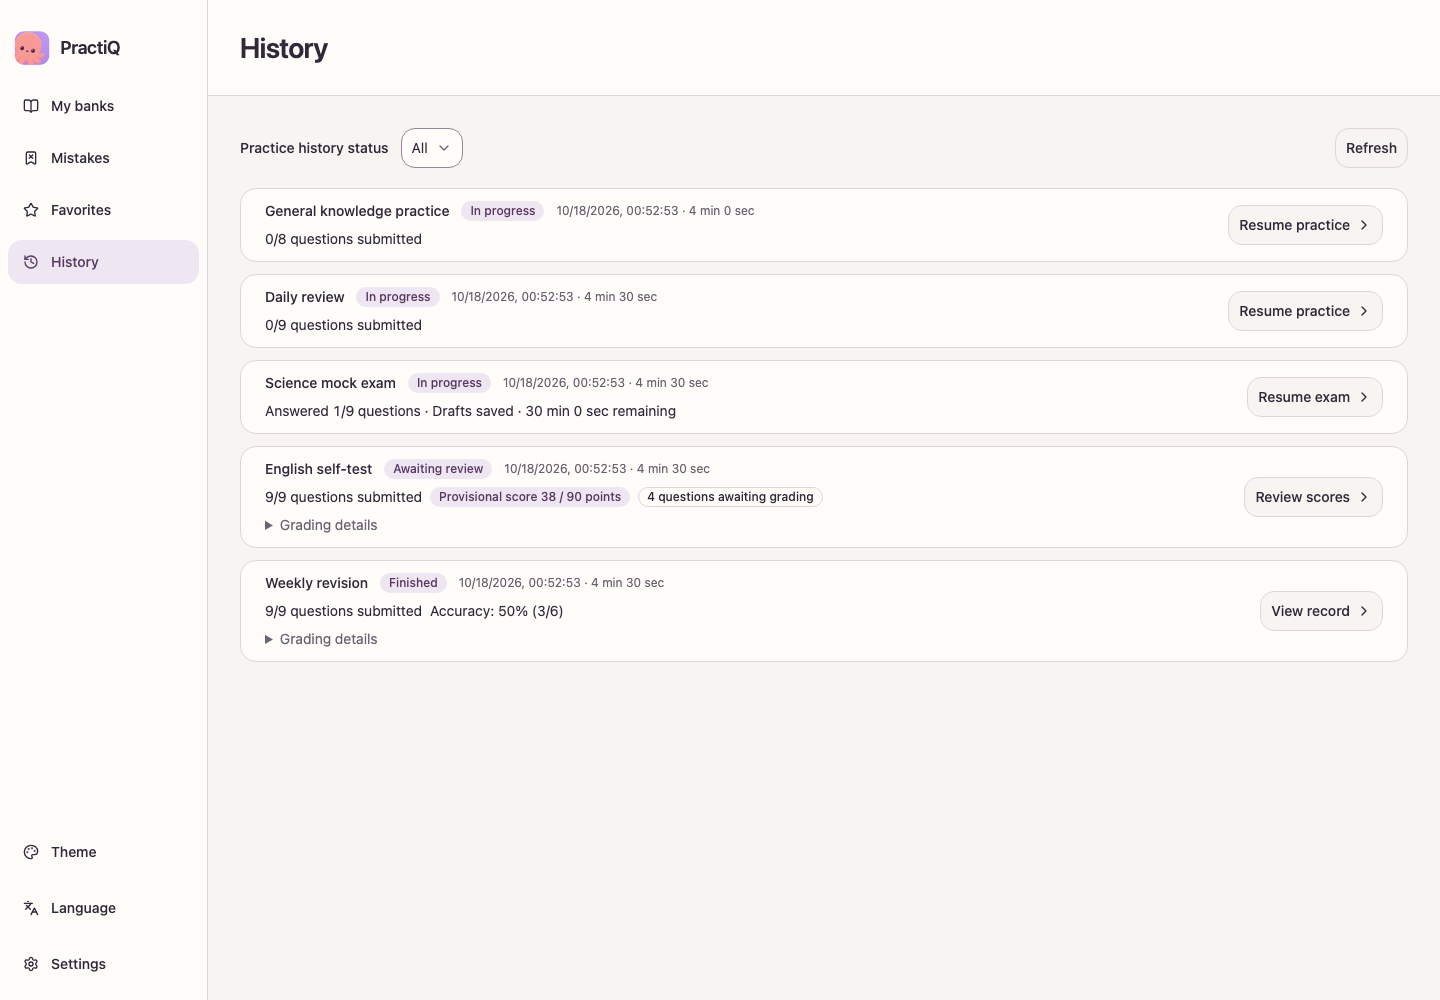
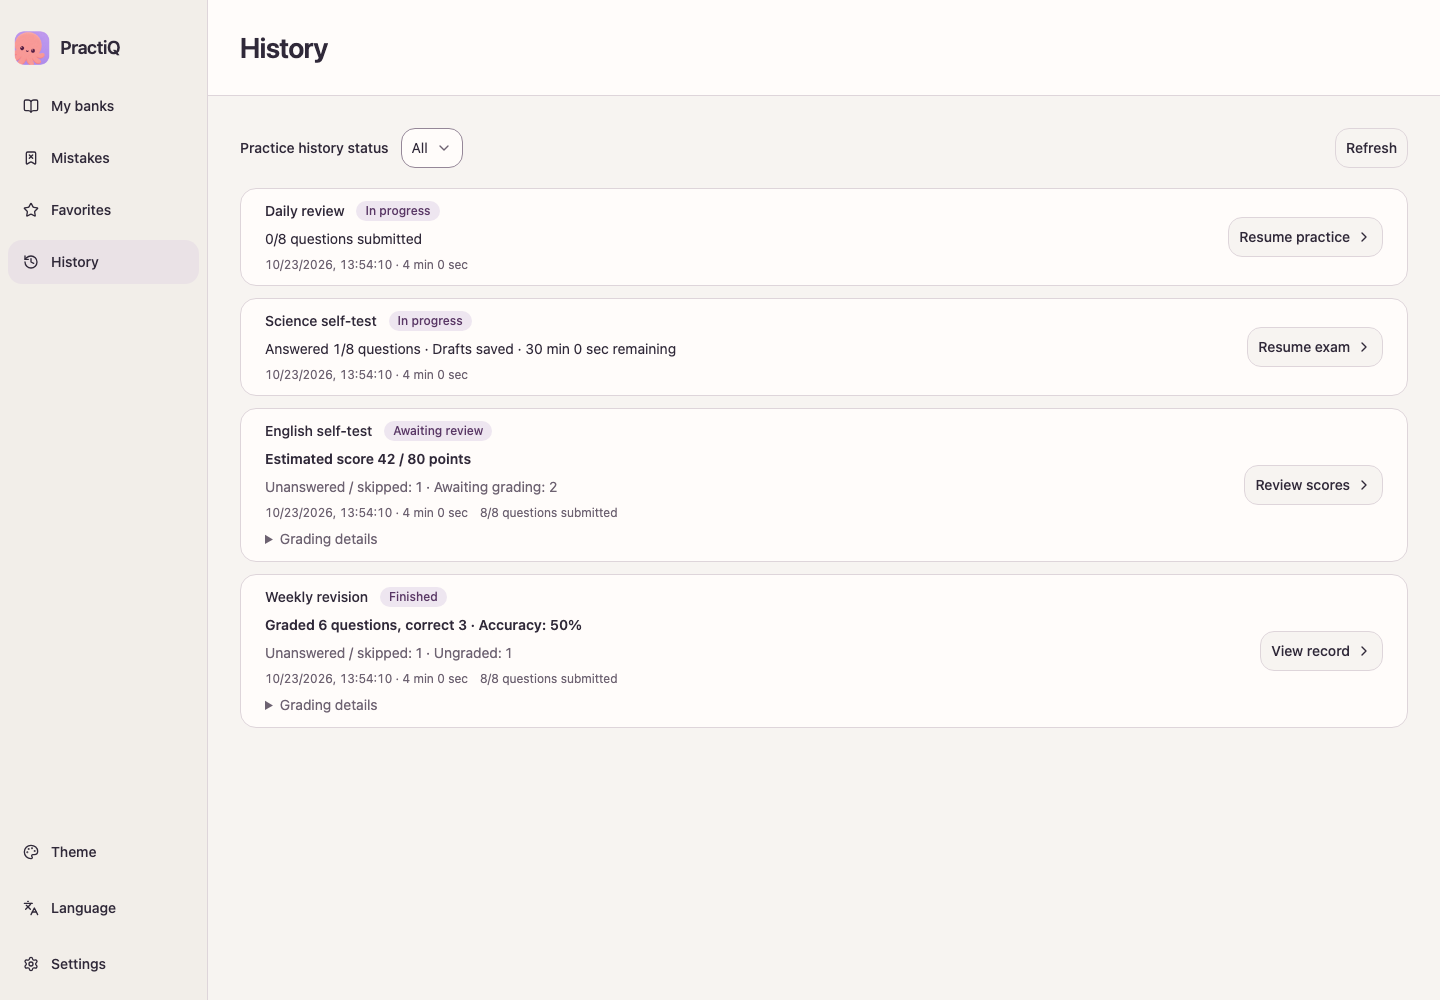
docs(readme): refresh screenshots for the current practice UI

diff --git a/README.md b/README.md
@@ -23,7 +23,7 @@ These screenshots show the desktop development preview in English, with hand-wri
 | :---: | :---: |
 | [![English question banks with sample titles and descriptions](docs/assets/screenshots/banks-en.png)](docs/assets/screenshots/banks-en.png) | [![English practice question with answer options and answer sheet](docs/assets/screenshots/practice-en.png)](docs/assets/screenshots/practice-en.png) |
 | **Mistakes** | **Practice history** |
-| [![English mistakes list with scores and source banks](docs/assets/screenshots/mistakes-en.png)](docs/assets/screenshots/mistakes-en.png) | [![English practice history with session progress and results](docs/assets/screenshots/history-en.png)](docs/assets/screenshots/history-en.png) |
+| [![English mistakes list with source banks and favorite controls](docs/assets/screenshots/mistakes-en.png)](docs/assets/screenshots/mistakes-en.png) | [![English practice history with session progress and results](docs/assets/screenshots/history-en.png)](docs/assets/screenshots/history-en.png) |
 
 ## Try it without a model
 

diff --git a/README.zh-CN.md b/README.zh-CN.md
@@ -23,7 +23,7 @@
 | :---: | :---: |
 | [![英文题库首页，包含示例题库名称和描述](docs/assets/screenshots/banks-en.png)](docs/assets/screenshots/banks-en.png) | [![英文答题页面，包含选项和答题卡](docs/assets/screenshots/practice-en.png)](docs/assets/screenshots/practice-en.png) |
 | **错题** | **练习记录** |
-| [![英文错题列表，包含得分和所属题库](docs/assets/screenshots/mistakes-en.png)](docs/assets/screenshots/mistakes-en.png) | [![英文练习记录，包含进度和成绩](docs/assets/screenshots/history-en.png)](docs/assets/screenshots/history-en.png) |
+| [![英文错题列表，包含所属题库和收藏操作](docs/assets/screenshots/mistakes-en.png)](docs/assets/screenshots/mistakes-en.png) | [![英文练习记录，包含进度和成绩](docs/assets/screenshots/history-en.png)](docs/assets/screenshots/history-en.png) |
 
 ## 先体验：无需配置模型
 

diff --git a/README.zh-TW.md b/README.zh-TW.md
@@ -25,7 +25,7 @@
 | :---: | :---: |
 | [![英文題庫首頁，包含範例題庫名稱與說明](docs/assets/screenshots/banks-en.png)](docs/assets/screenshots/banks-en.png) | [![英文作答畫面，包含選項與答案卡](docs/assets/screenshots/practice-en.png)](docs/assets/screenshots/practice-en.png) |
 | **錯題** | **練習紀錄** |
-| [![英文錯題清單，包含得分與所屬題庫](docs/assets/screenshots/mistakes-en.png)](docs/assets/screenshots/mistakes-en.png) | [![英文練習紀錄，包含進度與成績](docs/assets/screenshots/history-en.png)](docs/assets/screenshots/history-en.png) |
+| [![英文錯題清單，包含所屬題庫與收藏操作](docs/assets/screenshots/mistakes-en.png)](docs/assets/screenshots/mistakes-en.png) | [![英文練習紀錄，包含進度與成績](docs/assets/screenshots/history-en.png)](docs/assets/screenshots/history-en.png) |
 
 ## 先試用：不需設定模型
 
